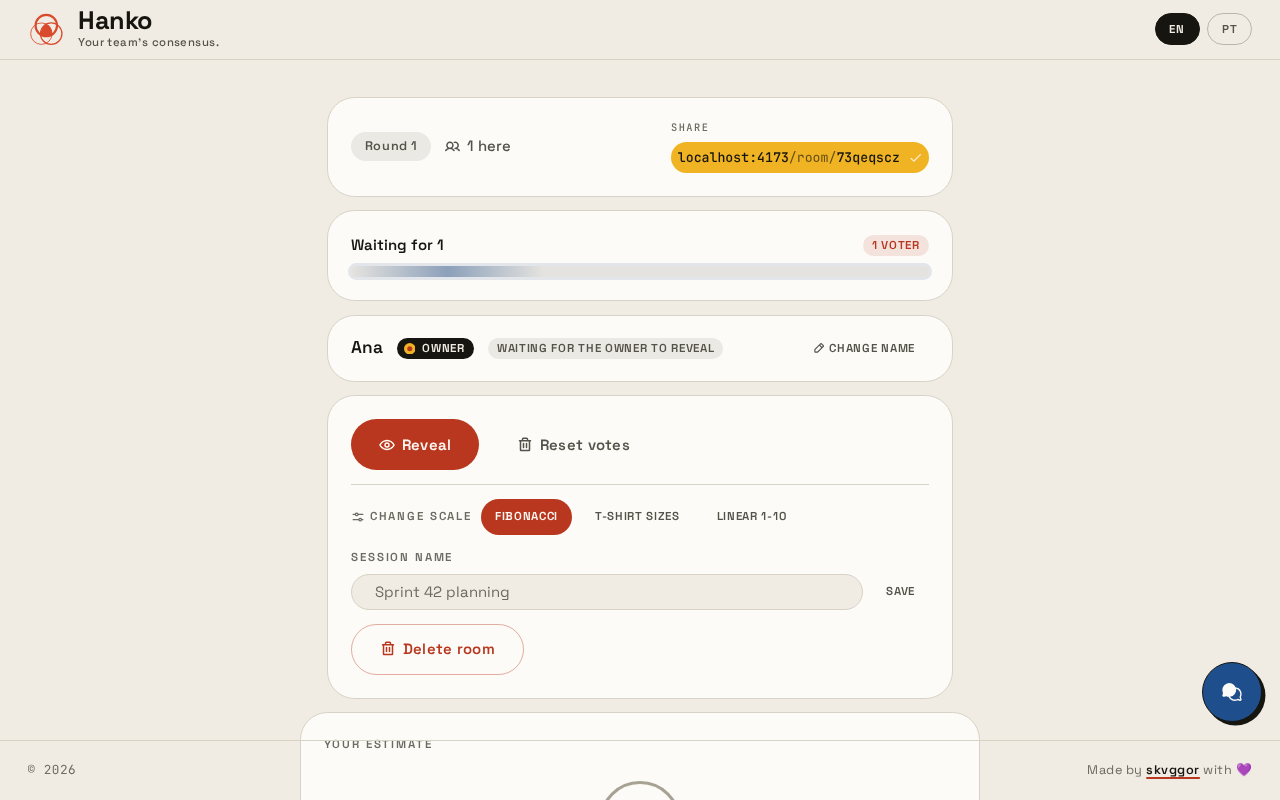
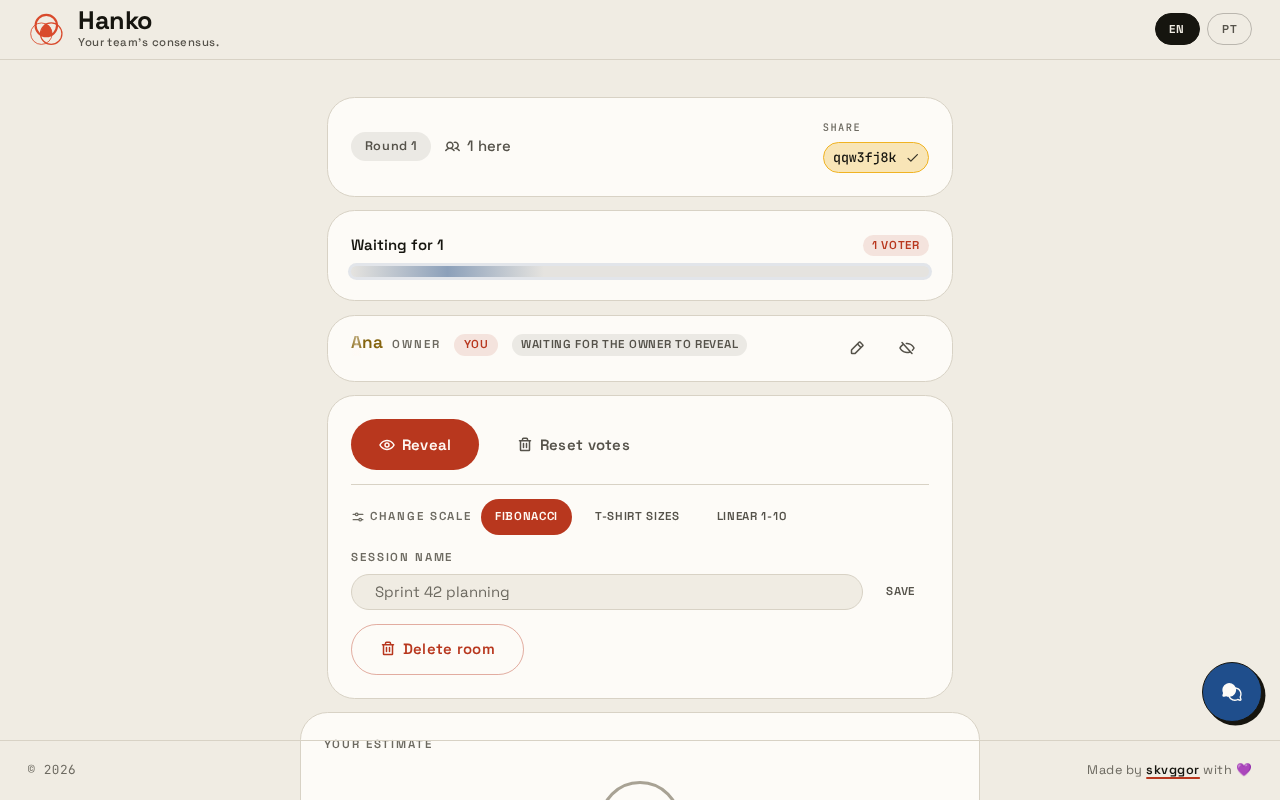
Bring the manual up to the screens it photographs
The figures predate the rows finding their identity, so the manual was
describing buttons in words beside pictures of icons and promising a link
inside a chip that now shows the room id.

The pictures are taken again from the app as it stands, and the text
describes what the reader will actually meet: the id chip that copies the
link, the list that leads with the owner and follows with the reader's
own row, and actions that are icons named on hover and on keyboard focus.

The capture parks the pointer before every shot as well, which is why no
card is left wearing a hover the reader never triggered.

Changed region(s): [[0.5, 0.1562, 0.75, 0.2188], [0.2812, 0.4062, 0.5625, 0.4688], [0.6562, 0.4062, 0.7188, 0.4375]]

diff --git a/docs/MANUAL.md b/docs/MANUAL.md
@@ -34,9 +34,9 @@ type it again.
 
 ![The room with the share chip copied](images/03-room-share.png)
 
-The chip at the top of the room holds the invitation: press it to copy the link and
-send it to the team. Anyone who opens it joins the same room, so share it only with
-the people who should be there.
+The chip at the top of the room holds the invitation. It shows the room id, and
+pressing it copies the whole link to send to the team. Anyone who opens it joins the
+same room, so share it only with the people who should be there.
 
 The room header shows the round number and how many people are present.
 
@@ -116,12 +116,18 @@ The owner's panel holds the controls for the room:
 
 ![The participants list with the owner actions](images/09-people.png)
 
-Everyone can press the pencil to change their own name. On other people's rows the
-owner additionally can:
+The list leads with the owner, whose name is written in gold, and your own row comes
+right below them. A "You" marker points at the row that is yours.
 
-- **Make owner**: hand the room over. Only one owner at a time, and they get the
-  reveal and management controls.
-- **Make watcher / Make voter**: move someone between voting and watching.
+Every action is an icon: rest the pointer on it, or reach it with the keyboard, and
+its name appears.
+
+- **Pencil**: change your own name.
+- **Crown (Make owner)**: hand the room over. Only one owner at a time, and they get
+  the reveal and management controls.
+- **Eye (Make watcher / Make voter)**: move someone between voting and watching. The
+  owner can turn their own row into a watcher as well, which is how someone runs the
+  room without voting in it.
 - **Remove**: kick someone out. A removed person cannot rejoin with the same link,
   not even by reloading.
 
